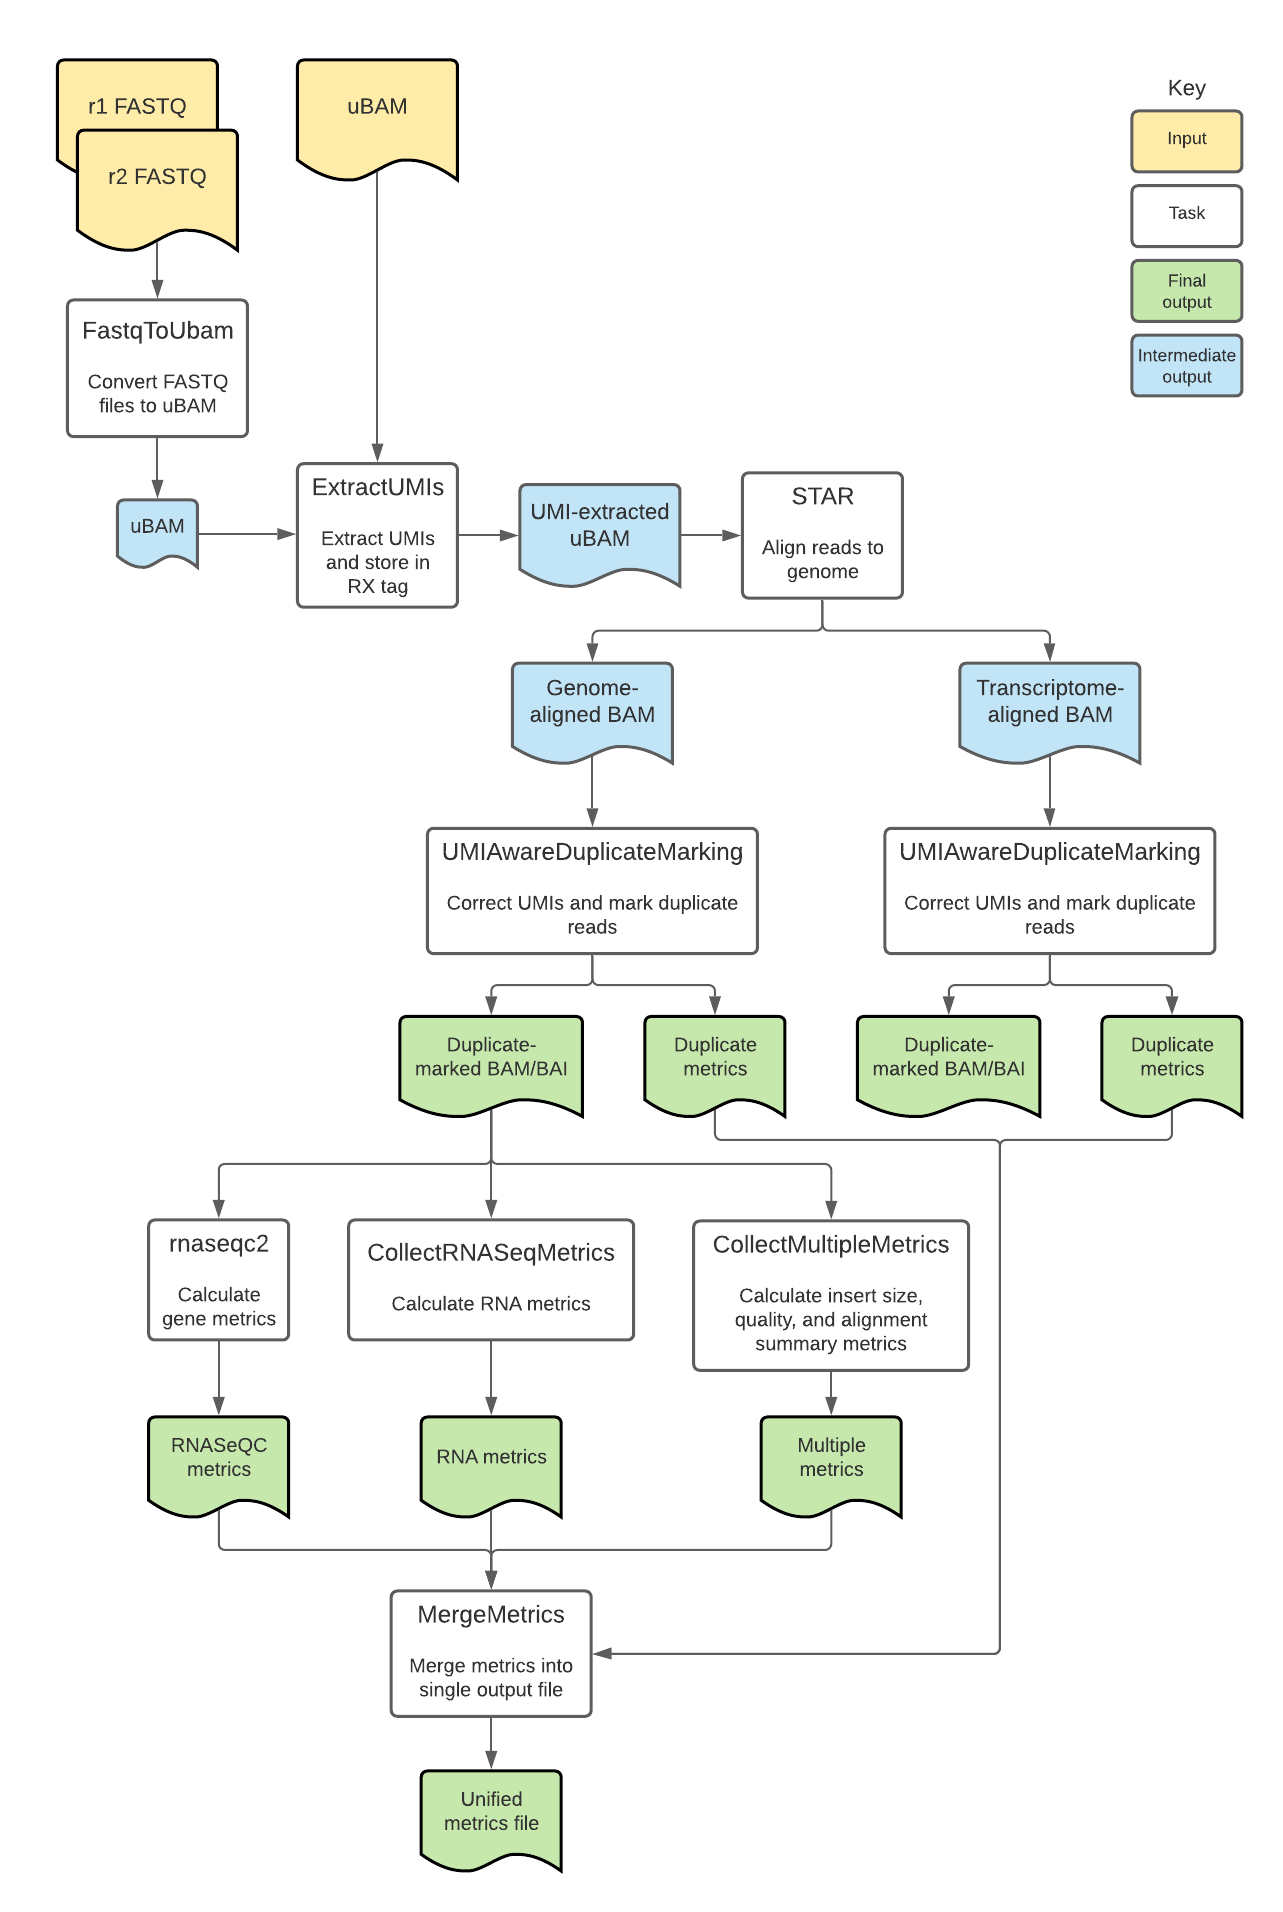
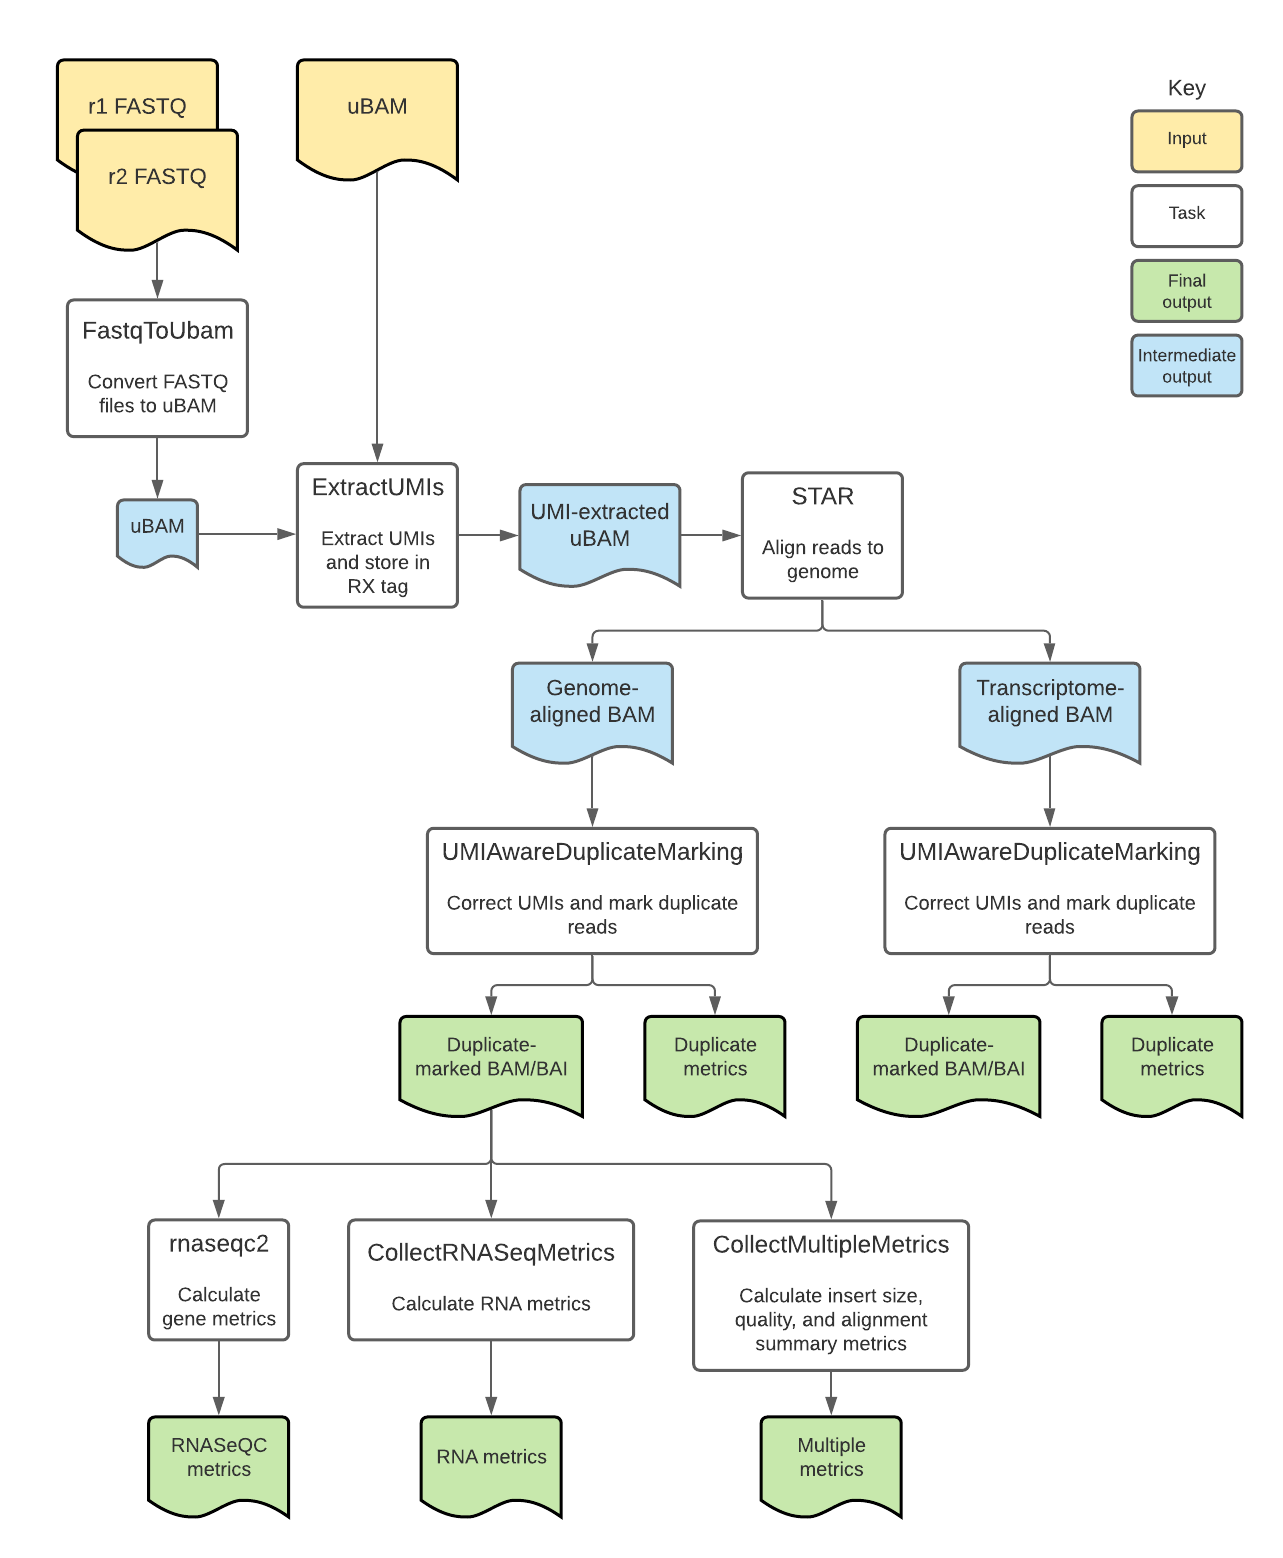
Removed MergeMetrics

diff --git a/website/docs/Pipelines/RNA_with_UMIs_Pipeline/README.md b/website/docs/Pipelines/RNA_with_UMIs_Pipeline/README.md
@@ -14,9 +14,11 @@ sidebar_position: 1
 
 The [RNA with UMIs pipeline](https://github.com/broadinstitute/warp/blob/develop/pipelines/broad/rna_seq/RNAWithUMIsPipeline.wdl) is an open-source, cloud-optimized workflow for processing total RNA isolated with the Transcriptome Capture (TCap) method. TCap is a technique that hybridizes exome baits to cDNA library preparations to better facilitate RNA-sequencing in low-input or poor quality (degraded) samples. These libraries may additionally be prepared with Unique Molecular Identifiers (UMIs) which can help distinguish biological signal from noise resulting from PCR amplification. 
 
-Overall, the workflow performs UMI correction, aligns reads to the genome, quantifies gene counts, and calculates quality metrics. The workflow produces genome- and transcriptome-aligned BAMs with indices and a merged quality metrics file. 
+Overall, the workflow performs UMI correction, aligns reads to the genome, quantifies gene counts, and calculates quality metrics. The workflow produces genome- and transcriptome-aligned BAMs with indices and a quality metrics files. 
 
 While this workflow was created to be used with TCap RNA-seq data, it can be used to process any bulk RNA-seq data. 
+
+<!--- add comment about validation of the pipeline --->
 
 <!--- tip for methods section will go here --->
 
@@ -29,6 +31,8 @@ While this workflow was created to be used with TCap RNA-seq data, it can be use
 To download the latest release of the RNA with UMIs pipeline, see the release tags prefixed with "RNAwithUMIs" on the WARP [releases page](https://github.com/broadinstitute/warp/releases). All releases of the RNA with UMIs pipeline are documented in the [RNA with UMIs changelog](https://github.com/broadinstitute/warp/blob/develop/pipelines/broad/rna_seq/RNAWithUMIsPipeline.changelog.md). 
 
 To search releases of this and other pipelines, use the WARP command-line tool [Wreleaser](https://github.com/broadinstitute/warp/tree/develop/wreleaser).
+
+<!--- add comment about running an old version of the workflow --->
 
 The RNA with UMIs pipeline can be deployed using [Cromwell](https://cromwell.readthedocs.io/en/stable/), a GA4GH compliant, flexible workflow management system that supports multiple computing platforms. The workflow can also be run in [Terra](https://app.terra.bio), a cloud-based analysis platform. 
 <!--- link to public workspace will go here --->
@@ -48,14 +52,14 @@ The workflow takes in either a set of paired-end FASTQ files or a read group unm
 | r2_fastq | Read 2 FASTQ file; alternatively, the unmapped bam file (`bam`) may be used as input. | File |
 | read1Structure | String describing how the bases in a sequencing run should be allocated into logical reads for read 1 by fgbio's [ExtractUmisFromBam](http://fulcrumgenomics.github.io/fgbio/tools/latest/ExtractUmisFromBam.html) tool; for more information about read structures, see the [fgbio documentation](https://github.com/fulcrumgenomics/fgbio/wiki/Read-Structures).  | String |
 | read2Structure | String describing how the bases in a sequencing run should be allocated into logical reads for read 2 by fgbio's [ExtractUmisFromBam](http://fulcrumgenomics.github.io/fgbio/tools/latest/ExtractUmisFromBam.html) tool; for more information about read structures, see the [fgbio documentation](https://github.com/fulcrumgenomics/fgbio/wiki/Read-Structures).  | String |
-| starIndex | TAR file containing genome indices used for the [STAR aligner](https://github.com/alexdobin/STAR). | File | 
 | output_basename | String used as a prefix in workflow output files. | String |
-| gtf | Gene annotation file (GTF) used for the [RNA-SeQC](https://github.com/getzlab/rnaseqc) tool. | File | 
 | platform | String used to describe the sequencing platform; only required when using FASTQ files as input. | String |
 | library_name | String used to describe the library; only required when using FASTQ files as input. | String |
 | platform_unit | String used to describe the platform unit; only required when using FASTQ files as input. | String |
 | read_group_name | String used to describe the read group name; only required when using FASTQ files as input. | String |
 | sequencing_center | String used to describe the sequencing center; only required when using FASTQ files as input; default is set to “BI”. |  String |
+| starIndex | TAR file containing genome indices used for the [STAR aligner](https://github.com/alexdobin/STAR). | File | 
+| gtf | Gene annotation file (GTF) used for the [RNA-SeQC](https://github.com/getzlab/rnaseqc) tool. | File | 
 | ref | FASTA file used for metric collection with [Picard](https://broadinstitute.github.io/picard/) tools. | File |
 | refIndex | FASTA index file used for metric collection with [Picard](https://broadinstitute.github.io/picard/) tools. | File |
 | refDict | Dictionary file used for metric collection with [Picard](https://broadinstitute.github.io/picard/) tools. | File |
@@ -123,7 +127,6 @@ To see specific tool parameters, select the task WDL link in the table; then fin
 | [tasks.rnaseqc2](https://github.com/broadinstitute/warp/blob/develop/tasks/broad/RNAWithUMIsTasks.wdl) | rnaseqc | [RNA-SeQC](https://github.com/getzlab/rnaseqc) | Uses the genome-aligned, duplicate-marked BAM file to calculate TPMs, gene counts, exon counts, fragment sizes, and additional metrics, each of which is outputted to an individual file. |
 | [tasks.CollectRNASeqMetrics](https://github.com/broadinstitute/warp/blob/develop/tasks/broad/RNAWithUMIsTasks.wdl) | CollectRNASeqMetrics | [Picard](https://broadinstitute.github.io/picard/) | Calculates RNA metrics; strand specificity is set to SECOND_READ_TRANSCRIPTION_STRAND. |
 | [tasks.CollectMultipleMetrics](https://github.com/broadinstitute/warp/blob/develop/tasks/broad/RNAWithUMIsTasks.wdl) | CollectMultipleMetrics | [Picard](https://broadinstitute.github.io/picard/) | Collects multiple classes of metrics; runs tools CollectInsertSizeMetrics and CollectAlignmentSummaryMetrics. |
-| [tasks.MergeMetrics](https://github.com/broadinstitute/warp/blob/develop/tasks/broad/RNAWithUMIsTasks.wdl) | --- | --- | Merges the metrics from Picard and RNA-SeQC. |
 
 #### 1. Convert FASTQ to uBAM
 
@@ -161,7 +164,9 @@ After duplicate reads have been tagged, the workflow uses [RNA-SeQC](https://git
 
 #### 6. Metric calculation
 
-The pipeline uses [RNA-SeQC](https://github.com/getzlab/rnaseqc), Picard’s [CollectRNASeqMetrics](https://gatk.broadinstitute.org/hc/en-us/articles/360037057492-CollectRnaSeqMetrics-Picard-), and Picard’s [CollectMultipleMetrics](https://gatk.broadinstitute.org/hc/en-us/articles/360037594031-CollectMultipleMetrics-Picard-) to calculate summary metrics that can be used to assess the quality of the data each time the pipeline is run. The resulting metrics are output to several individual files and merged together to create the `MergeMetrics.unified_metrics` output file. 
+The pipeline uses [RNA-SeQC](https://github.com/getzlab/rnaseqc), Picard’s [CollectRNASeqMetrics](https://gatk.broadinstitute.org/hc/en-us/articles/360037057492-CollectRnaSeqMetrics-Picard-), and Picard’s [CollectMultipleMetrics](https://gatk.broadinstitute.org/hc/en-us/articles/360037594031-CollectMultipleMetrics-Picard-) to calculate summary metrics that can be used to assess the quality of the data each time the pipeline is run. 
+
+If you are a member of the Broad Institute's Genomics Platform using the [internal RNA with UMIs pipeline](https://github.com/broadinstitute/warp/blob/develop/pipelines/broad/internal/rna_seq/BroadInternalRNAWithUMIs.wdl), there is an additional step which merges the individual metrics files together to create the `MergeMetrics.unified_metrics` output file and prepare the data for use in the Terra Data Repository.
 
 #### 7. Outputs
 
@@ -170,6 +175,7 @@ Workflow outputs are described in the table below.
 
 | Output variable name | Description | Type | 
 | ------ | ------ | ------ |
+| sample_name | Sample name extracted from the input unmapped BAM file header. | String
 | transcriptome_bam | Duplicate-marked BAM file containing alignments from STAR translated into transcriptome coordinates. | BAM |
 | transcriptome_bam_index | Index file for the transcriptome_bam output. | BAM Index |
 | transcriptome_duplicate_metrics | File containing duplication metrics. | TXT | 
@@ -180,7 +186,7 @@ Workflow outputs are described in the table below.
 | rnaseqc2_gene_counts | File containing gene counts. | GCT |
 | rnaseqc2_exon_counts | File containing exon counts. | GCT |
 | rnaseqc2_fragment_size_histogram | File containing counts of observed fragment size. | TXT |
-| rnaseqc2_metrics | File containing RNA-SeQC metrics including strand specificity, 3’/5’ bias, rRNA reads, and others | TSV |
+| rnaseqc2_metrics | File containing RNA-SeQC metrics including strand specificity, 3’/5’ bias, rRNA reads, and others. | TSV |
 | picard_rna_metrics | Metrics file containing the output of Picard’s CollectRnaSeqMetrics tool. | TXT |
 | picard_alignment_summary_metrics | Metrics file containing output of Picard’s CollectAlignmentSummaryMetrics tool. | TXT |
 | picard_insert_size_metrics | Metrics file containing output of Picard’s CollectInsertSizeMetrics tool. | TXT |
@@ -189,8 +195,8 @@ Workflow outputs are described in the table below.
 | picard_base_distribution_by_cycle_pdf | Chart of nucleotide distribution per cycle. | PDF |
 | picard_quality_by_cycle_metrics | Metrics file containing the output of Picard’s MeanQualityByCycle tool. | TXT |
 | picard_quality_by_cycle_pdf | Chart of mean quality by cycle. | PDF |
-| picard_quality_distribution_metrics | Metrics file containing the output of Picard’s QualityScoreDistribution tool.
-| unified_metrics | Merged metrics file containing RNA-SeQC, Picard RNA-seq, Picard insert size, and Picard alignment metrics. | TXT |
+| picard_quality_distribution_metrics | Metrics file containing the output of Picard’s QualityScoreDistribution tool. | TXT |
+| picard_quality_distribution_pdf | Chart of quality score distribution. | PDF |
 
 <!--- Validation will go here --->
 
@@ -198,6 +204,10 @@ Workflow outputs are described in the table below.
 
 All RNA with UMIs pipeline releases are documented in the [pipeline changelog](https://github.com/broadinstitute/warp/blob/develop/pipelines/broad/rna_seq/RNAWithUMIsPipeline.changelog.md).
 
+<!--- citing the pipeline will go here --->
+
 ## Feedback
 
 Please help us make our tools better by contacting [Kylee Degatano](mailto:kdegatano@broadinstitute.org) for pipeline-related suggestions or questions.
+
+<!--- FAQs will go here --->
